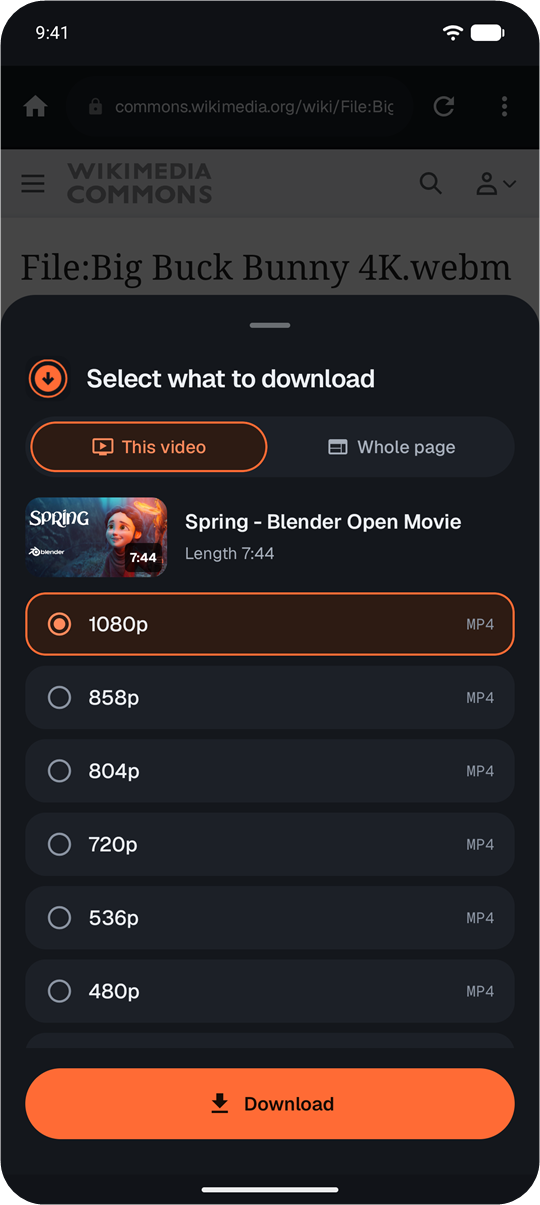
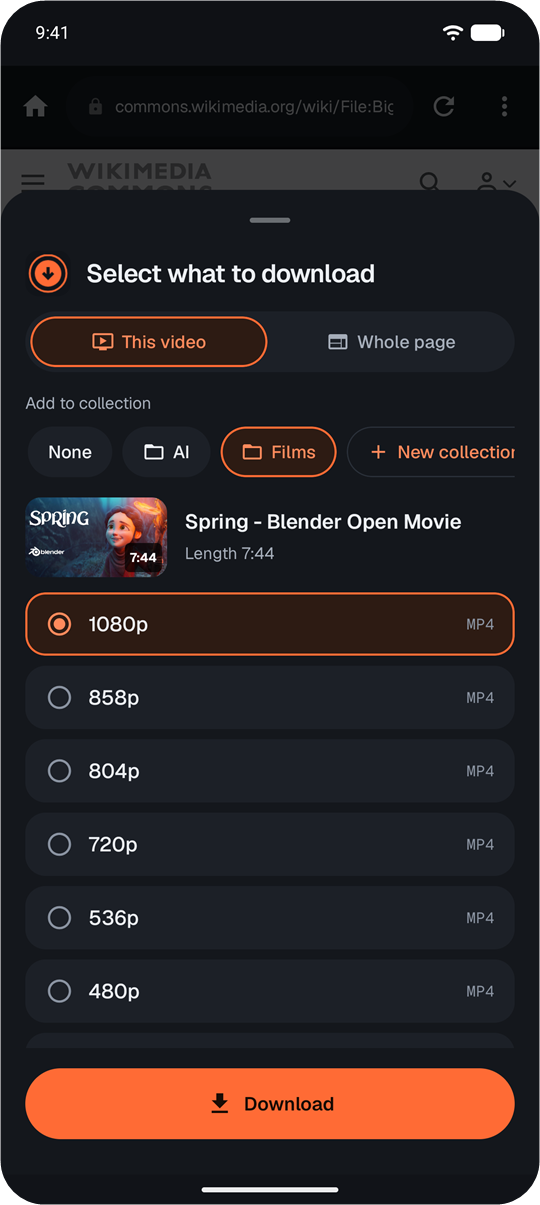
README: share sheet screenshot with the collection picker

Changed region(s): [[0.0, 0.1535, 1.0, 0.3992]]

diff --git a/README.md b/README.md
@@ -12,9 +12,9 @@ built on [yt-dlp](https://github.com/yt-dlp/yt-dlp) with a calm, modern UI.
 |:---:|:---:|:---:|:---:|
 | <img src="docs/screenshots/deck.png" width="200" alt="Paste a link"> | <img src="docs/screenshots/downloads.png" width="200" alt="Follow your downloads"> | <img src="docs/screenshots/library.png" width="200" alt="Keep them in your library"> | <img src="docs/screenshots/player.png" width="200" alt="Watch them"> |
 
-| **Browse any site, save its videos** | **Share a link from any app** | **Listen in the background** | **Make it yours** |
+| **Browse any site, save its videos** | **Share a link, save it to a collection** | **Listen in the background** | **Make it yours** |
 |:---:|:---:|:---:|:---:|
-| <img src="docs/screenshots/browser.png" width="200" alt="Browse any site, save its videos"> | <img src="docs/screenshots/share.png" width="200" alt="Share a link from any app"> | <img src="docs/screenshots/audio.png" width="200" alt="Listen in the background"> | <img src="docs/screenshots/settings.png" width="200" alt="Make it yours"> |
+| <img src="docs/screenshots/browser.png" width="200" alt="Browse any site, save its videos"> | <img src="docs/screenshots/share.png" width="200" alt="Share a link, save it to a collection"> | <img src="docs/screenshots/audio.png" width="200" alt="Listen in the background"> | <img src="docs/screenshots/settings.png" width="200" alt="Make it yours"> |
 
 <sub>The screenshots show Blender's open movies (CC BY, Blender Foundation and Blender Studio).</sub>
 
